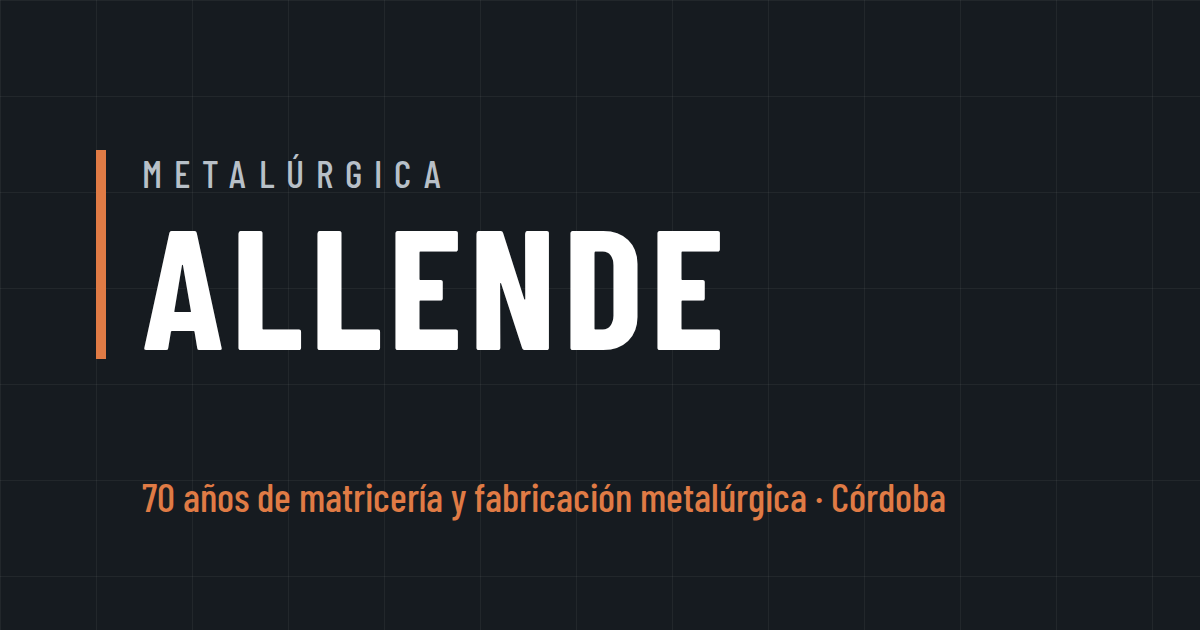
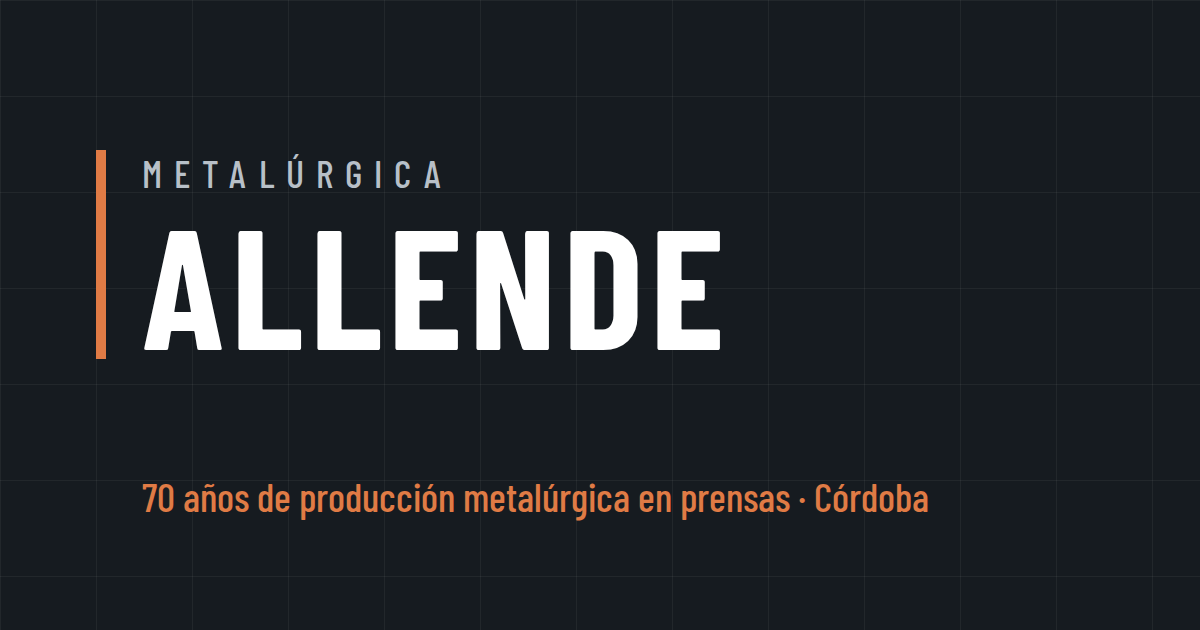
Ajustar contenido con datos confirmados por la empresa
- Se suma doblado a los servicios de prensa; 1/2" acotado a corte,
  punzonado y doblado.
- Volúmenes expresados como series de miles de unidades por mes.
- Historia sin el origen como taller de matricería.
- Torno automático identificado como torno a levas.
- Imagen para redes regenerada con el nuevo tagline.

Claude-Session: https://claude.ai/code/session_01DnnUiNkGwJVxAq8B14SSrg

Changed region(s): [[0.2467, 0.754, 0.8017, 0.8143]]

diff --git a/index.html b/index.html
@@ -3,8 +3,8 @@
 <head>
   <meta charset="utf-8">
   <meta name="viewport" content="width=device-width, initial-scale=1">
-  <title>Metalúrgica Allende | Estampado, embutido, soldadura y tornería en Córdoba</title>
-  <meta name="description" content="Metalúrgica Allende: 70 años de oficio metalúrgico en Córdoba. Corte, estampado y embutido con prensas mecánicas de hasta 200 toneladas, matrices, soldadura y tornería. Acero al carbono e inoxidable, lotes cortos y series.">
+  <title>Metalúrgica Allende | Corte, doblado y estampado de chapa, soldadura y tornería en Córdoba</title>
+  <meta name="description" content="Metalúrgica Allende: 70 años de oficio metalúrgico en Córdoba. Corte, punzonado, doblado, estampado y embutido con prensas mecánicas de hasta 200 toneladas, matrices, soldadura y tornería. Acero al carbono e inoxidable, lotes cortos y series.">
   <meta name="theme-color" content="#161B20">
 
   <!--
@@ -19,7 +19,7 @@
   <meta property="og:locale" content="es_AR">
   <meta property="og:site_name" content="Metalúrgica Allende">
   <meta property="og:title" content="Metalúrgica Allende — 70 años de oficio metalúrgico en Córdoba">
-  <meta property="og:description" content="Corte, estampado y embutido con prensas mecánicas de hasta 200 t, matrices, soldadura y tornería. Fabricación a medida.">
+  <meta property="og:description" content="Corte, doblado, estampado y embutido con prensas mecánicas de hasta 200 t, matrices, soldadura y tornería. Fabricación a medida.">
   <meta property="og:image" content="assets/img/og-image.png">
   <meta property="og:image:width" content="1200">
   <meta property="og:image:height" content="630">
@@ -41,7 +41,7 @@
     "@context": "https://schema.org",
     "@type": "LocalBusiness",
     "name": "Metalúrgica Allende",
-    "description": "Corte, estampado y embutido con prensas mecánicas, mantenimiento y reparación de matrices, soldadura y tornería.",
+    "description": "Corte, punzonado, doblado, estampado y embutido con prensas mecánicas, mantenimiento y reparación de matrices, soldadura y tornería.",
     "telephone": "+54 9 351 801-7028",
     "email": "metalurgicaallende@gmail.com",
     "address": {
@@ -108,8 +108,8 @@
             <span class="hero-title-sm">Metalúrgica</span>
             Allende
           </h1>
-          <p class="hero-tagline">70 años de matricería y fabricación metalúrgica.</p>
-          <p class="hero-lede">Corte, estampado y embutido con prensas mecánicas, matrices, soldadura y tornería. Piezas a medida, desde lotes cortos hasta producción en serie.</p>
+          <p class="hero-tagline">70 años de producción metalúrgica en prensas.</p>
+          <p class="hero-lede">Corte, punzonado, doblado, estampado y embutido con prensas mecánicas, matrices, soldadura y tornería. Piezas a medida, desde lotes cortos hasta producción en serie.</p>
           <div class="hero-actions">
             <a class="btn btn--primary" href="https://wa.me/5493518017028" target="_blank" rel="noopener">Consultar por WhatsApp</a>
             <a class="btn btn--ghost" href="#contacto">Solicitar presupuesto</a>
@@ -167,8 +167,8 @@
             <svg class="card-icon" viewBox="0 0 48 48" aria-hidden="true" focusable="false">
               <g fill="none" stroke="currentColor" stroke-width="2"><rect x="10" y="6" width="28" height="10"/><path d="M18 16v8h12v-8"/><path d="M4 30h14v6h12v-6h14"/><path d="M4 42h40"/></g>
             </svg>
-            <h3>Corte, estampado y embutido</h3>
-            <p>Trabajo en prensas mecánicas de 90 a 200 toneladas: corte, punzonado, estampado y embutido de chapa.</p>
+            <h3>Trabajo en prensas</h3>
+            <p>Corte, punzonado, doblado, estampado y embutido de chapa en prensas mecánicas de 90 a 200 toneladas.</p>
           </article>
 
           <article class="card">
@@ -203,11 +203,11 @@
         <dl class="facts">
           <div>
             <dt>Materiales</dt>
-            <dd>Acero al carbono de hasta 1/2″ (12,7 mm), según el proceso y la pieza. Acero inoxidable.</dd>
+            <dd>Acero al carbono de hasta 1/2″ (12,7 mm) en corte, punzonado y doblado. Acero inoxidable.</dd>
           </div>
           <div>
             <dt>Volúmenes</dt>
-            <dd>Desde lotes cortos de piezas complejas hasta series de 10.000 unidades por mes en piezas chicas.</dd>
+            <dd>Desde lotes cortos de piezas complejas hasta series de miles de unidades por mes.</dd>
           </div>
           <div>
             <dt>Sectores</dt>
@@ -235,10 +235,10 @@
               <tr><th scope="col">Equipo</th><th scope="col">Capacidad</th><th scope="col">Uso típico</th></tr>
             </thead>
             <tbody>
-              <tr><th scope="row">Prensa mecánica</th><td>200 <span class="unit">t</span></td><td>Embutido y estampado de piezas de mayor tamaño o espesor.</td></tr>
-              <tr><th scope="row">Prensa mecánica</th><td>150 <span class="unit">t</span></td><td>Corte, estampado y embutido de piezas medianas.</td></tr>
+              <tr><th scope="row">Prensa mecánica</th><td>200 <span class="unit">t</span></td><td>Corte, punzonado, doblado y estampado de piezas de mayor tamaño o espesor.</td></tr>
+              <tr><th scope="row">Prensa mecánica</th><td>150 <span class="unit">t</span></td><td>Corte, doblado, estampado y embutido de piezas medianas.</td></tr>
               <tr><th scope="row">Prensa mecánica</th><td>90 <span class="unit">t</span></td><td>Corte, punzonado y estampado de piezas chicas y series.</td></tr>
-              <tr><th scope="row">Torno automático</th><td data-na>—</td><td>Producción en serie de piezas torneadas.</td></tr>
+              <tr><th scope="row">Torno automático a levas</th><td data-na>—</td><td>Producción en serie de piezas torneadas.</td></tr>
             </tbody>
           </table>
         </div>
@@ -256,7 +256,7 @@
           <figure class="media media--4x3"><img data-src="assets/img/maquina-prensa-200t.jpg" alt="Prensa mecánica de 200 toneladas" width="1600" height="1200" loading="lazy" decoding="async"><figcaption>Prensa 200 <span class="unit">t</span></figcaption></figure>
           <figure class="media media--4x3"><img data-src="assets/img/maquina-prensa-150t.jpg" alt="Prensa mecánica de 150 toneladas" width="1600" height="1200" loading="lazy" decoding="async"><figcaption>Prensa 150 <span class="unit">t</span></figcaption></figure>
           <figure class="media media--4x3"><img data-src="assets/img/maquina-prensa-90t.jpg" alt="Prensa mecánica de 90 toneladas" width="1600" height="1200" loading="lazy" decoding="async"><figcaption>Prensa 90 <span class="unit">t</span></figcaption></figure>
-          <figure class="media media--4x3"><img data-src="assets/img/maquina-torno-automatico.jpg" alt="Torno automático" width="1600" height="1200" loading="lazy" decoding="async"><figcaption>Torno automático</figcaption></figure>
+          <figure class="media media--4x3"><img data-src="assets/img/maquina-torno-automatico.jpg" alt="Torno automático a levas" width="1600" height="1200" loading="lazy" decoding="async"><figcaption>Torno automático a levas</figcaption></figure>
         </div>
       </div>
     </section>
@@ -327,7 +327,7 @@
         <div class="about-text">
           <p class="eyebrow">Nosotros</p>
           <h2 id="nosotros-title" class="section-title">Tres generaciones en el oficio</h2>
-          <p>Metalúrgica Allende nació hace 70 años como taller de matricería, de la mano de <strong>Alberto Allende</strong>, artesano matricero, y participó en el desarrollo de matrices para los rubros de autopartes, medicina y construcción.</p>
+          <p>Metalúrgica Allende fue fundada hace 70 años por <strong>Alberto Allende</strong>, matricero de oficio, y desde sus primeros años se dedicó a la producción de piezas en prensas.</p>
           <p>Hace 40 años la dirige <strong>Oscar Allende</strong>, segunda generación. Hoy se suma <strong>Ezequiel Allende</strong>, tercera generación, para ordenar procesos y preparar a la empresa para las próximas décadas, sin perder el oficio que le dio origen.</p>
         </div>
 
@@ -335,7 +335,7 @@
           <li class="timeline-item">
             <span class="timeline-when">Hace 70 años</span>
             <h3 class="timeline-who">Alberto Allende</h3>
-            <p>Fundador. Artesano matricero.</p>
+            <p>Fundador. Matricero de oficio.</p>
           </li>
           <li class="timeline-item">
             <span class="timeline-when">Hace 40 años</span>
@@ -435,7 +435,7 @@
           <span class="wordmark-top">Metalúrgica</span>
           <span class="wordmark-main">Allende</span>
         </a>
-        <p class="footer-note">Matricería y fabricación metalúrgica en Córdoba desde hace 70 años.</p>
+        <p class="footer-note">Producción metalúrgica en Córdoba desde hace 70 años.</p>
       </div>
 
       <div class="footer-contact">

diff --git a/README.md b/README.md
@@ -30,7 +30,7 @@ Buscar en `index.html` los comentarios con la palabra **REEMPLAZAR** o **AGREGAR
 | **Fotos de piezas** | Subir `pieza-01.jpg` … `pieza-08.jpg` (1:1, ej. 1200×1200). La sección *Trabajos* y su link en el menú aparecen solos cuando hay al menos una foto. Editar el `alt` de cada una en `index.html` describiendo la pieza. |
 | **Redes sociales** | Bloque comentado en el footer. Descomentar y poner las URLs reales. |
 | **Formulario** | El botón principal abre WhatsApp con el mensaje armado; el secundario abre el mail del visitante. Para recibir los mensajes directo: crear un formulario en [Formspree](https://formspree.io) y pegar la URL en `data-endpoint="…"` del `<form>`. |
-| **Datos técnicos** | Tabla de máquinas y bloque "Materiales / Volúmenes / Sectores" en la sección Servicios y Capacidades. Falta confirmar el espesor máximo de acero inoxidable y los datos del torno. |
+| **Datos técnicos** | Tabla de máquinas y bloque "Materiales / Volúmenes / Sectores" en la sección Servicios y Capacidades. La columna "Uso típico" es una estimación: revisarla. Falta confirmar el espesor máximo de acero inoxidable y el diámetro máximo del torno automático a levas (hoy la celda de capacidad muestra "—"). |
 | **Dominio** | Cuando esté activo: agregar `canonical` y `og:url` (comentario en el `<head>`), pasar `og:image` a URL absoluta, y verificar el dominio en `robots.txt` y `sitemap.xml` (estos dos exigen URL absoluta; hoy apuntan a `metalurgicaallende.com`). |
 
 Optimizar fotos antes de subir (ej. [Squoosh](https://squoosh.app)): JPG calidad ~80, menos de 250 KB cada una.
